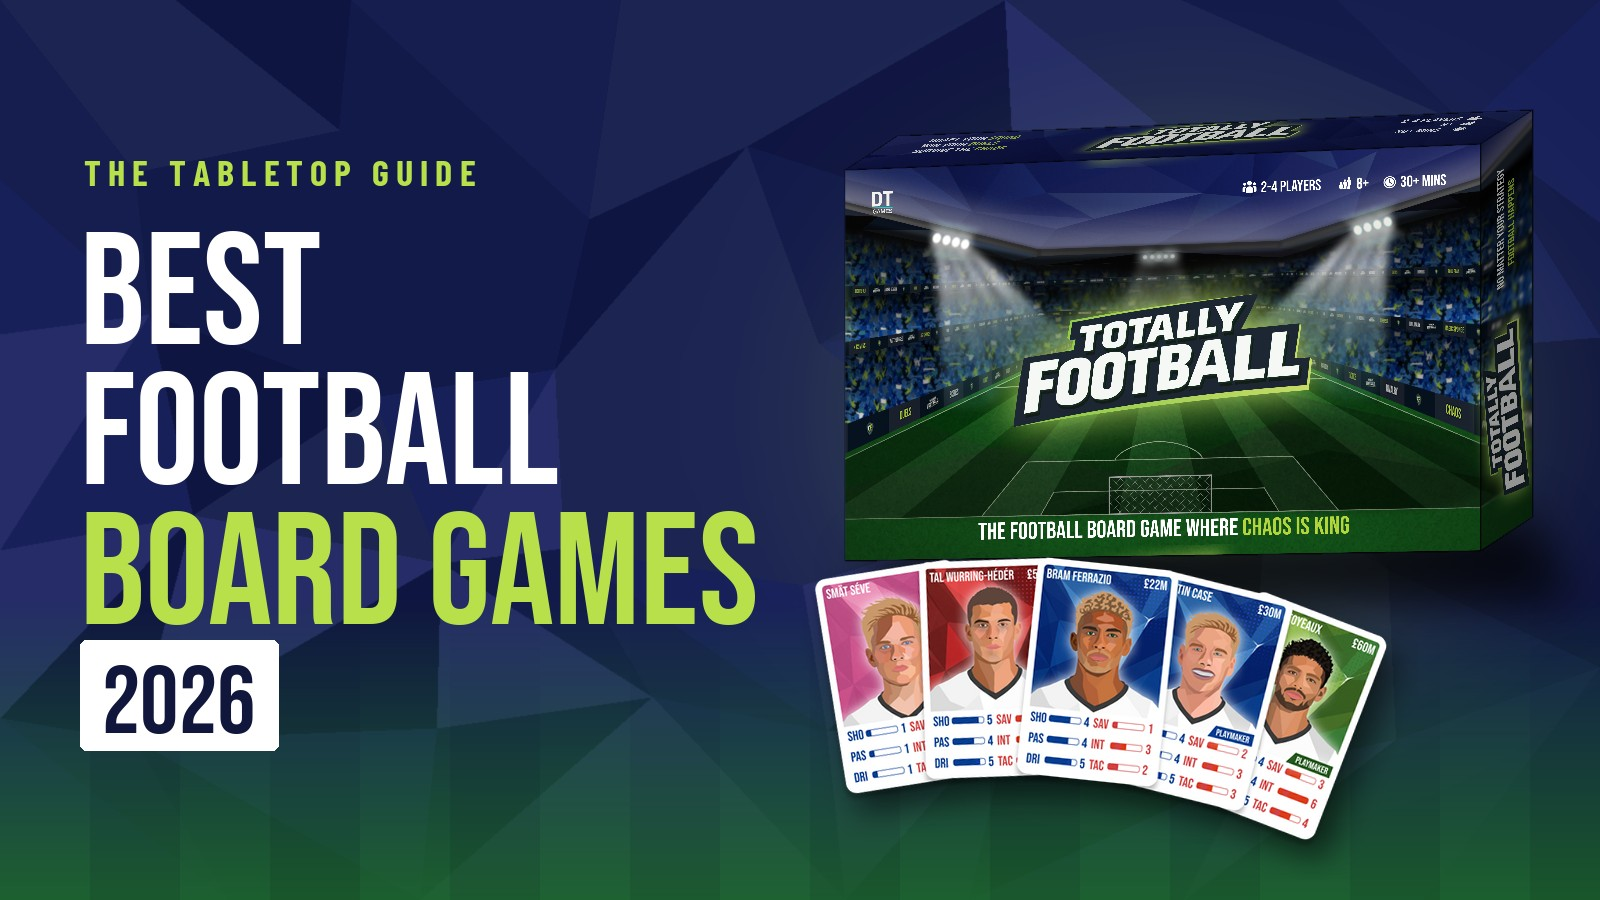
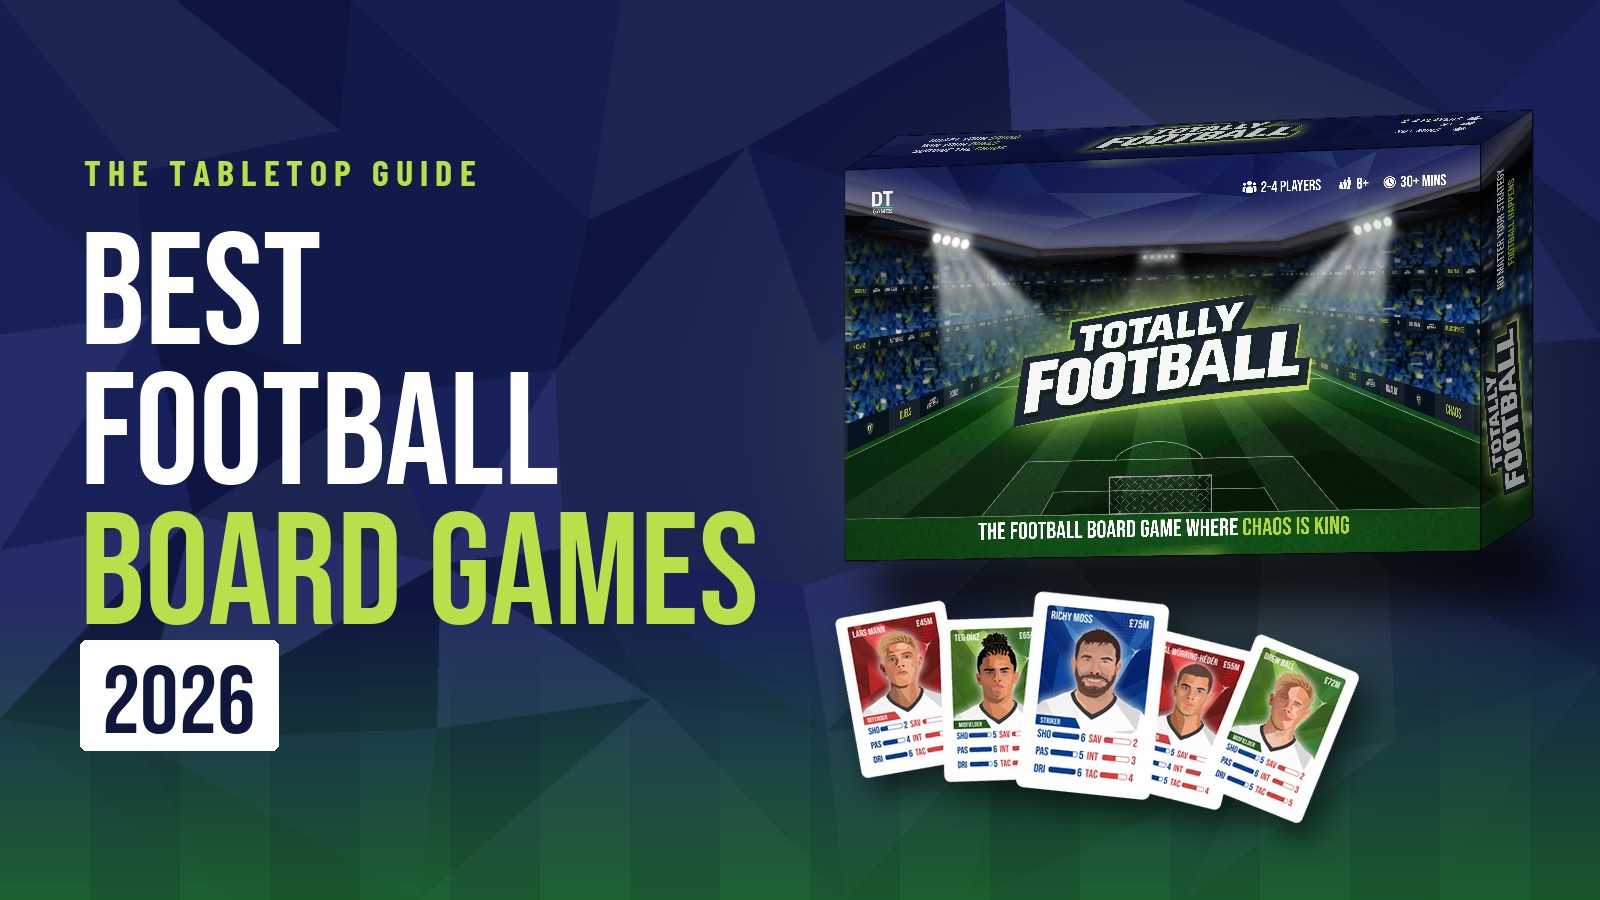
Make the best-of post the answer for football board game searches
Search Console shows "football board games" split between the homepage,
the best-of post and the blog index, and AI Mode already citing the
best-of post in follow-up answers. The post now owns list-style
searches: a short answer up front, ten games with "best for" labels
(adding Zeugo, Tipp-Kick, Counter Attack, Blood Bowl and Flip Football
for games-like-Subbuteo, kids and strategy searches), a wider comparison
table, an FAQ that mirrors the questions people ask, soccer wording for
US searchers and an updated date.

The blog index no longer competes for the term and links to the post,
and the homepage adds a football-strategy line linking to How to Play
and the guide. The post's image now shows the final cards.

Claude-Session: https://claude.ai/code/session_01J1F7mrnCDuq8TU83Qo3jHp

Changed region(s): [[0.5, 0.6222, 0.875, 0.9333]]

diff --git a/src/content/blog/best-football-board-games-2026.md b/src/content/blog/best-football-board-games-2026.md
@@ -1,259 +1,223 @@
 ---
 
 title: "Best Football Board Games in 2026"
-description: "From tactical strategy games to football management simulators, these are the best football board games to play in 2026."
+description: "The best football (soccer) board games in 2026: tactical duels, Subbuteo and games like it, football management sims, picks for kids and 2-player games, compared."
 pubDate: 2026-05-13
+updatedDate: 2026-10-26
 heroImage: "../../assets/blog/best-football-board-games-2026.jpg"
 tags:
  - football board games
+ - soccer board games
  - tabletop games
  - football strategy games
  - board games
 
 ---
 
-*From tactical simulations to fast-paced card battles, these are the football tabletop games worth playing this year.*
+*From tactical card battles to flick-to-kick classics and club management sims, these are the football board games worth playing this year.*
 
-Football video games dominate the conversation when it comes to sports gaming, but tabletop football games have quietly become one of the most interesting niches in modern board gaming.
+## The short answer
 
-The best football board games capture the tension, momentum swings and tactical decision-making that make football compelling in the first place. Some focus on realism and long-term strategy. Others lean into chaos, rivalries and quick-fire competitive gameplay.
+The best football board games in 2026 are:
 
-Whether you're a hardcore football fan, a casual player looking for a game-night hit, or someone searching for a tactical sports game with genuine replayability, there are now more quality options than ever.
+* **[Totally Football](/)**: best for fast, tactical head-to-head matches
+* **Subbuteo**: best classic, skill-based flicking game
+* **Superclub**: best football management board game
+* **Superclub Rivals**: best quicker management game
+* **Sunday Manager**: best for strategy-heavy season planning
+* **Zeugo Table Football**: best modern alternative to Subbuteo
+* **Tipp-Kick**: best compact flick-and-kick game
+* **Counter Attack**: best detailed match simulation
+* **Blood Bowl**: best fantasy football game
+* **Flip Football**: best pocket-sized card game for kids
 
-Here are the best football board games to play in 2026.
+Not sure which suits you? Jump to the [comparison table](#which-football-board-game-is-right-for-you) or the [FAQ](#football-board-game-faq).
+
+Football video games dominate sports gaming, but tabletop football games have quietly become one of the most interesting niches in modern board gaming. The best of them capture the tension, momentum swings and tactical decisions that make football compelling in the first place, whether you call it football or soccer.
 
 
 ## What Makes a Great Football Board Game?
 
-Football is difficult to translate into tabletop form.
-
-The sport is built around momentum, positioning, tactical adjustments and moments of chaos — all things that can easily feel random or frustrating in badly designed games.
+Football is difficult to translate into tabletop form. The sport is built around momentum, positioning, tactical adjustments and moments of chaos, all things that can easily feel random or frustrating in badly designed games.
 
 The best football board games usually get three things right:
 
-### Tactical Decision-Making
-
-Good football games reward smart choices.
-
-Whether that's squad selection, positioning, timing, resource management or player matchups, players should feel like they influence the outcome beyond pure luck.
-
-### Tension & Momentum
-
-Football is dramatic because matches can change instantly.
-
-Great tabletop football games recreate that pressure through risky decisions, comeback mechanics or decisive moments that feel earned.
-
-### Replayability
-
-Football is endlessly replayable because every match feels slightly different.
-
-The best tabletop football games create that same variety through team-building, tactical approaches, asymmetry or evolving game states.
+* **Tactical decisions.** Squad selection, positioning, timing or player matchups should matter more than pure luck.
+* **Tension and momentum.** Matches should be able to turn on a single moment, with comebacks that feel earned.
+* **Replayability.** Like real football, no two matches should play out the same way.
 
 
 ## The Best Football Board Games in 2026
 
 ### 1. Totally Football
 
-#### Best For: Tactical head-to-head football rivalries
+**Best for:** fast, tactical head-to-head matches · **Players:** 2–4 · **Age:** 8+ · **Match length:** 20–30 minutes
 
 [Totally Football](/) focuses on one of the most exciting parts of football: individual player duels.
 
-Instead of simulating entire matches in microscopic detail, the game distils football down into tactical decisions, stat battles, squad management and momentum swings that feel fast, competitive and replayable.
+Instead of simulating every pass in microscopic detail, it distils football into top-trumps-style stat battles. You draft a squad of star players, then attack through three zones of the pitch (build-up, progression and the final third) while Action Cards swing each duel and Chaos Cards bring in the moments that decide real matches: penalties, VAR, keeper howlers.
 
-Players move through three gameplay phases:
+It's a football strategy game that's quick to learn, and matches stay tense without bogging down in rules. You can [try the free demo](/demo/) in your browser to see how a match plays out.
 
-* Build-Up
-* Progression
-* Final Third
-
-Each phase creates different tactical pressures, while wildcard cards introduce moments of chaos that can completely change a match.
-
-What makes the game stand out is its pacing. Matches are designed to stay tense without becoming bogged down in simulation-heavy rules. You can [try the free demo](/demo/) in your browser to see how a match plays out.
-
-#### Why It Works
-
-* Fast-paced tactical gameplay
-* Strong football identity
-* Accessible but competitive
-* Head-to-head rivalry energy
-* Replayable duel mechanics
-
-#### Best For Players Who Enjoy
-
-* Football rivalries
-* Tactical decision-making
-* Competitive game nights
-* Fast tabletop matches
-* Squad-building mechanics
+* **Why it works:** quick to learn, real tactical choices, full of goals and momentum swings
+* **Good to know:** coming to Kickstarter; [follow the campaign](https://www.kickstarter.com/projects/double-time-games/totally-football-football-board-game-with-chaotic-moments?ref=blog_best_games) to hear when it launches
 
 
 ### 2. Subbuteo
 
-#### Best For: Physical football simulation
+**Best for:** physical, skill-based football · **Players:** 2
 
-Subbuteo remains one of the most iconic football tabletop games ever created.
+Subbuteo is one of the most iconic football tabletop games ever made, created in 1947 by Peter Adolph. Players flick miniature footballers around a cloth pitch, trying to build passing moves and finish chances.
 
-Unlike card-driven football games, Subbuteo is entirely physical and skill-based. Players flick miniature footballers around the pitch while attempting to create realistic passing moves and shots.
+It's entirely about dexterity rather than cards or dice, and for many fans it's still the closest tabletop recreation of football. The learning curve is steep, but the depth and nostalgia are hard to beat.
 
-For some players, this is still the closest tabletop recreation of football ever made.
-
-The learning curve is much higher than most modern board games, but the depth and nostalgia remain incredibly appealing.
-
-#### Why It Works
-
-* Highly skill-based
-* Deep mastery potential
-* Physical football simulation
-* Huge nostalgia factor
-
-#### Potential Downsides
-
-* Harder to learn
-* Requires more space
-* Less accessible for casual players
+* **Why it works:** pure skill, huge nostalgia, real mastery to chase
+* **Downsides:** harder to learn, needs table space, less accessible for casual players
 
 
-### 3. Sunday Manager
+### 3. Superclub
 
-#### Best For: Football management fans
+**Best for:** football management fans · **Players:** 2–4
 
-Sunday Manager focuses on the management and decision-making side of football rather than direct match simulation.
+Superclub brings the feeling of football management games to the table. You run a club across multiple seasons: scouting and signing players, developing youth prospects, improving facilities and building a dynasty.
 
-Players take control of clubs across a season, balancing tactical choices, squad management and long-term planning while competing against rivals for league success.
+It captures the highs and lows of running a club particularly well, especially for players who enjoy planning ahead. Sessions run longer, often a couple of hours.
 
-The game leans into the drama and unpredictability of football management, making it particularly appealing for players who enjoy the strategic side of the sport.
-
-#### Why It Works
-
-* Strong football management themes
-* Long-term strategic planning
-* Competitive league-style progression
-* Good replayability across seasons
-
-#### Potential Downsides
-
-* Slower pace than action-focused football games
-* More management-heavy than direct match simulation
+* **Why it works:** excellent long-term progression, strong management systems, high-quality components
+* **Downsides:** long sessions, less match-day tension, more strategic than social
 
 
-### 4. Superclub
+### 4. Superclub Rivals
 
-#### Best For: Fans of long-term football club building
+**Best for:** quicker competitive management games
 
-Superclub combines football management with modern board game systems in a way that feels approachable without losing strategic depth.
+Superclub Rivals takes the club-management ideas from Superclub and condenses them into a faster, more interactive game. It focuses on direct rivalry and tactical timing, which makes it a better fit for shorter game nights.
 
-Players manage clubs across multiple seasons, developing youth prospects, improving facilities, making transfers and building long-term football dynasties.
-
-The game captures the emotional highs and lows of running a football club particularly well, especially for players who enjoy planning ahead and building squads over time.
-
-#### Why It Works
-
-* Excellent long-term progression
-* Strong club-management systems
-* Modern streamlined design
-* Highly replayable campaign structure
-
-#### Potential Downsides
-
-* Longer play sessions
-* Less immediate match tension
-* More strategic than social
+* **Why it works:** faster pace, strong player interaction, easier for new players
+* **Downsides:** less long-term depth than full management games
 
 
-### 5. Superclub Rivals
+### 5. Sunday Manager
 
-#### Best For: Faster competitive football management gameplay
+**Best for:** strategy-heavy season planning
 
-Superclub Rivals takes some of the club-management DNA from Superclub and condenses it into a faster, more competitive experience.
+Sunday Manager focuses on the management side of football rather than direct match simulation. Players run clubs across a season, balancing tactics, squad management and long-term planning while competing for the league.
 
-The game focuses more heavily on direct rivalry, tactical timing and interactive gameplay between players, making it a better fit for shorter game nights and more aggressive competitive play.
-
-Compared to larger football management games, Superclub Rivals feels leaner and more immediately accessible.
-
-#### Why It Works
-
-* Faster-paced football strategy gameplay
-* Strong player interaction
-* Easier onboarding for newer players
-* Competitive rivalry-focused matches
-
-#### Potential Downsides
-
-* Less long-term depth than full management games
-* Reduced campaign complexity
+* **Why it works:** strong management themes, real long-term planning, good replayability
+* **Downsides:** slower than action-focused games, more management than match play
 
 
-## Football Board Games vs Football Video Games
+### 6. Zeugo Table Football
 
-Football video games like FIFA and Football Manager dominate mainstream football gaming, but tabletop football games offer something very different.
+**Best for:** fans looking for a game like Subbuteo
 
-### More Social Gameplay
+If you grew up on Subbuteo, Zeugo is the closest modern equivalent. It's an Italian table football game that keeps the classic flick-to-kick play, with heavyweight player figures on newer, flatter bases. Many players see it as Subbuteo's true successor.
 
-Tabletop games create direct interaction between players.
+* **Why it works:** familiar to Subbuteo fans, tournament-level play
+* **Downsides:** can be harder to find in the UK, the same steep learning curve as Subbuteo
 
-Trash talk, rivalries, tactical mind games and momentum swings feel far more personal when everyone is sitting around the same table.
 
-### Faster Shared Experiences
+### 7. Tipp-Kick
 
-Many football board games are designed around short, replayable matches that fit perfectly into game nights.
+**Best for:** a compact flick-and-kick game
 
-### Tactical Simplicity
+A German classic, Tipp-Kick swaps flicking for kicking: you press a button on top of a metal player figure to swing its leg and strike the ball. It's quick to set up, fits in a small box and is great fun for families.
 
-Unlike simulation-heavy video games, tabletop football games often strip football down into its most exciting decisions.
+* **Why it works:** fast to learn, portable, instantly competitive
+* **Downsides:** more of a dexterity game than a tactical one
 
-That can make matches feel cleaner, faster and more dramatic.
+
+### 8. Counter Attack
+
+**Best for:** a detailed match simulation
+
+Counter Attack is a tactical football strategy game that recreates a full 90-minute match with 11 players a side. It's aimed at players who want every positional decision to count.
+
+* **Why it works:** real tactical depth, a full match on the table
+* **Downsides:** a heavier rules load and longer games
+
+
+### 9. Blood Bowl
+
+**Best for:** a fantasy twist on football
+
+Blood Bowl is Games Workshop's fantasy take on American football, with orcs, elves and plenty of violence. It isn't association football, but it's one of the most popular sports board games around and has a big competitive scene.
+
+* **Why it works:** deep tactics, huge community, endless team-building
+* **Downsides:** fantasy theme, miniatures and a steeper rules curve
+
+
+### 10. Flip Football
+
+**Best for:** a pocket-sized game for kids
+
+Flip Football is a small card game for ages 8 and up that you can take anywhere. It makes a good stocking filler for young football fans.
+
+* **Why it works:** cheap, portable, easy to learn
+* **Downsides:** light on strategy for adults
 
 
 ## Which Football Board Game Is Right For You?
 
-Different football board games appeal to different types of players.
+| If you want...                     | Play                                  |
+| ---------------------------------- | ------------------------------------- |
+| Fast tactical matches              | Totally Football                      |
+| A 2-player head-to-head rivalry    | Totally Football, Subbuteo            |
+| A football strategy board game     | Totally Football, Counter Attack      |
+| Something like Subbuteo            | Subbuteo, Zeugo Table Football        |
+| Football management depth          | Superclub, Sunday Manager             |
+| A quicker management game          | Superclub Rivals                      |
+| A family game for kids             | Totally Football (8+), Tipp-Kick, Flip Football |
+| A fantasy twist                    | Blood Bowl                            |
 
-| If You Want...                  | Recommended Game         |
-| ------------------------------- | ------------------------ |
-| Fast tactical matches           | Totally Football         |
-| Physical football simulation    | Subbuteo                 |
-| Football management depth       | Superclub                |
-| Family-friendly gameplay        | Totally Football         |
-| Strategy-heavy sports mechanics | Sunday Manager           |
+Shopping for someone else? See our [football gift guide for Black Friday and Christmas](/blog/football-gifts-black-friday-christmas-2026/).
 
 
-## Why Football Works So Well as a Tabletop Game
+## Football Board Games vs Football Video Games
 
-Football naturally creates tension.
+* **More social.** Trash talk, rivalries and tactical mind games feel far more personal when everyone is sitting around the same table.
+* **Shorter, shared matches.** Many football board games are built around quick, replayable matches that fit into a game night.
+* **The best decisions, not every decision.** Instead of simulating everything, tabletop games often strip football down to its most exciting choices, which makes matches cleaner, faster and more dramatic.
 
-Every attack matters.
-Every mistake matters.
-Every duel matters.
 
-That structure translates surprisingly well into tabletop gameplay because it creates:
+## Football Board Game FAQ
 
-* dramatic momentum swings
-* tactical mind games
-* emotional rivalries
-* constant decision-making
+### What is the best football board game?
 
-The best football board games understand that football is not just about simulation.
+It depends what you enjoy. For fast, tactical head-to-head matches, Totally Football. For physical skill, Subbuteo. For managing a club over several seasons, Superclub.
 
-It is about pressure.
-Timing.
-Risk.
-Momentum.
+### What is the best football board game for adults?
 
-That is what makes the genre so compelling when it is done properly.
+Totally Football, Superclub and Counter Attack all reward real tactical thinking. Totally Football plays in 20–30 minutes per match, while Superclub and Counter Attack are longer, heavier games.
+
+### What is the best 2-player football board game?
+
+Totally Football's Head-to-Head mode is built for two players (we recommend a best-of-three). Subbuteo and Tipp-Kick are also classic two-player games.
+
+### Are there any games like Subbuteo?
+
+Yes. Zeugo Table Football is the closest modern equivalent, and Tipp-Kick offers a similar physical style. If you want the rivalry of Subbuteo with more tactics and less dexterity, try Totally Football.
+
+### What is a good football board game for kids?
+
+Totally Football is suitable from age 8, and you can leave out the Chaos Cards for quicker games with younger players. Tipp-Kick and Flip Football are also good picks for young fans.
+
+### Is there a football strategy board game?
+
+Yes. Totally Football is a football strategy board game built around squad drafting and tactical duels, and Counter Attack is a detailed tactical simulation. Superclub and Sunday Manager focus on management strategy.
+
+### What's the difference between football and soccer board games?
+
+Nothing, apart from the name. "Football" is used in the UK and most of the world, and "soccer" in the US. Every game on this list is association football except Blood Bowl, which is a fantasy take on American football.
 
 
 ## Final Thoughts
 
-Football board games are becoming far more sophisticated than many people realise.
+Football board games are far more varied than many people realise. What was once a niche of flicking games and trivia now includes tactical strategy games, management simulations and fast competitive card battles.
 
-What was once a niche category dominated by simple flicking games and trivia products now includes tactical strategy games, management simulations and highly replayable competitive systems.
+Whether you want deep strategy, a quick rivalry with a friend or a football-themed family game night, there has never been a better time to explore tabletop football.
 
-Whether you prefer deep strategy, fast head-to-head rivalries or football-themed game nights with friends, there has never been a better time to explore football tabletop gaming.
-
-And as the genre continues to grow, expect football board games to become an increasingly important part of modern tabletop gaming culture.
-
-
-If fast tactical matches sound like your thing, [Totally Football](/) is coming to Kickstarter. [Follow the campaign](https://www.kickstarter.com/projects/double-time-games/totally-football-football-board-game-with-chaotic-moments?ref=blog_best_games) to be notified at launch.
+If fast tactical matches sound like your thing, [Totally Football](/) is coming to Kickstarter. [Play the free demo](/demo/) or [follow the campaign](https://www.kickstarter.com/projects/double-time-games/totally-football-football-board-game-with-chaotic-moments?ref=blog_best_games) to be notified at launch.
 
 ### Related Articles
 
